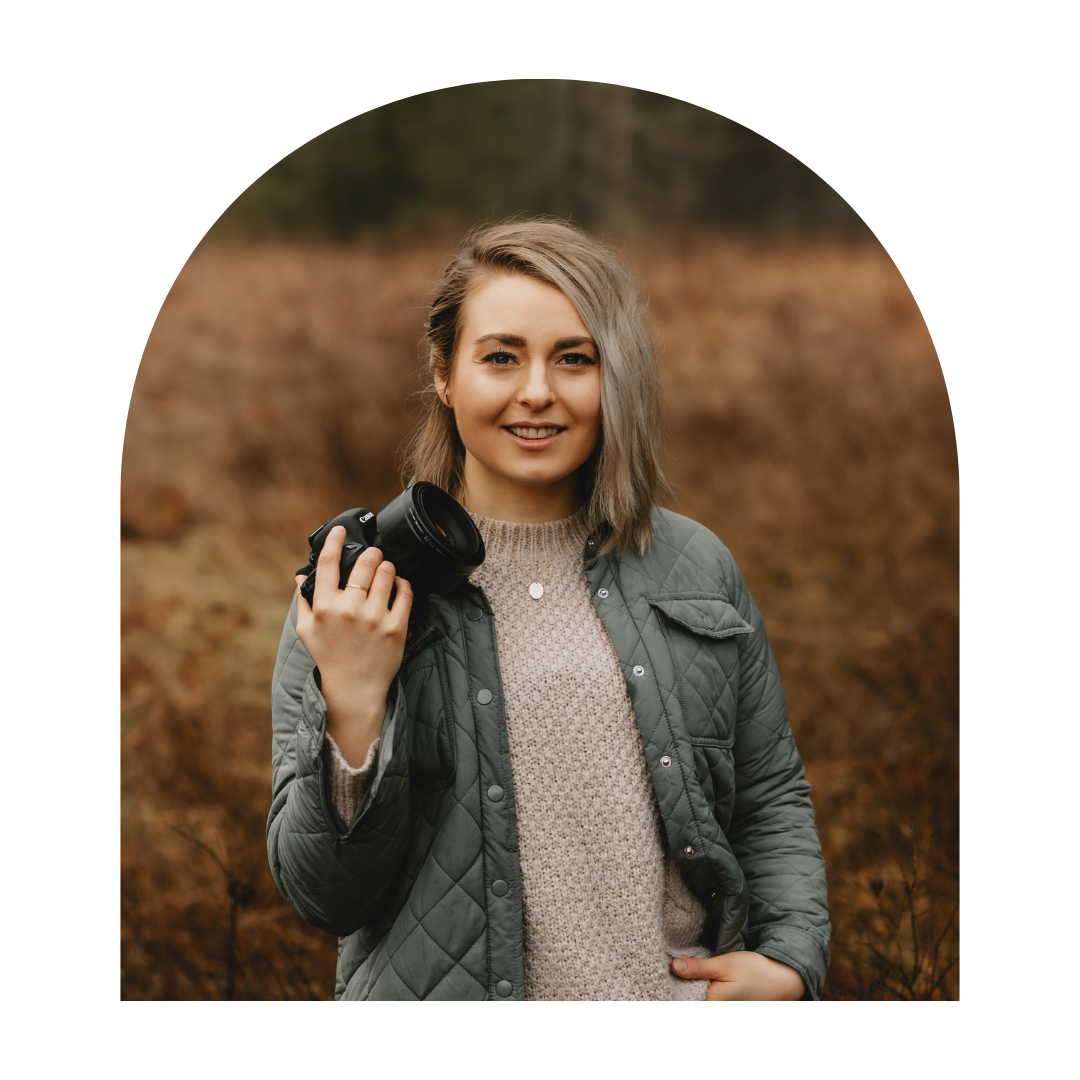
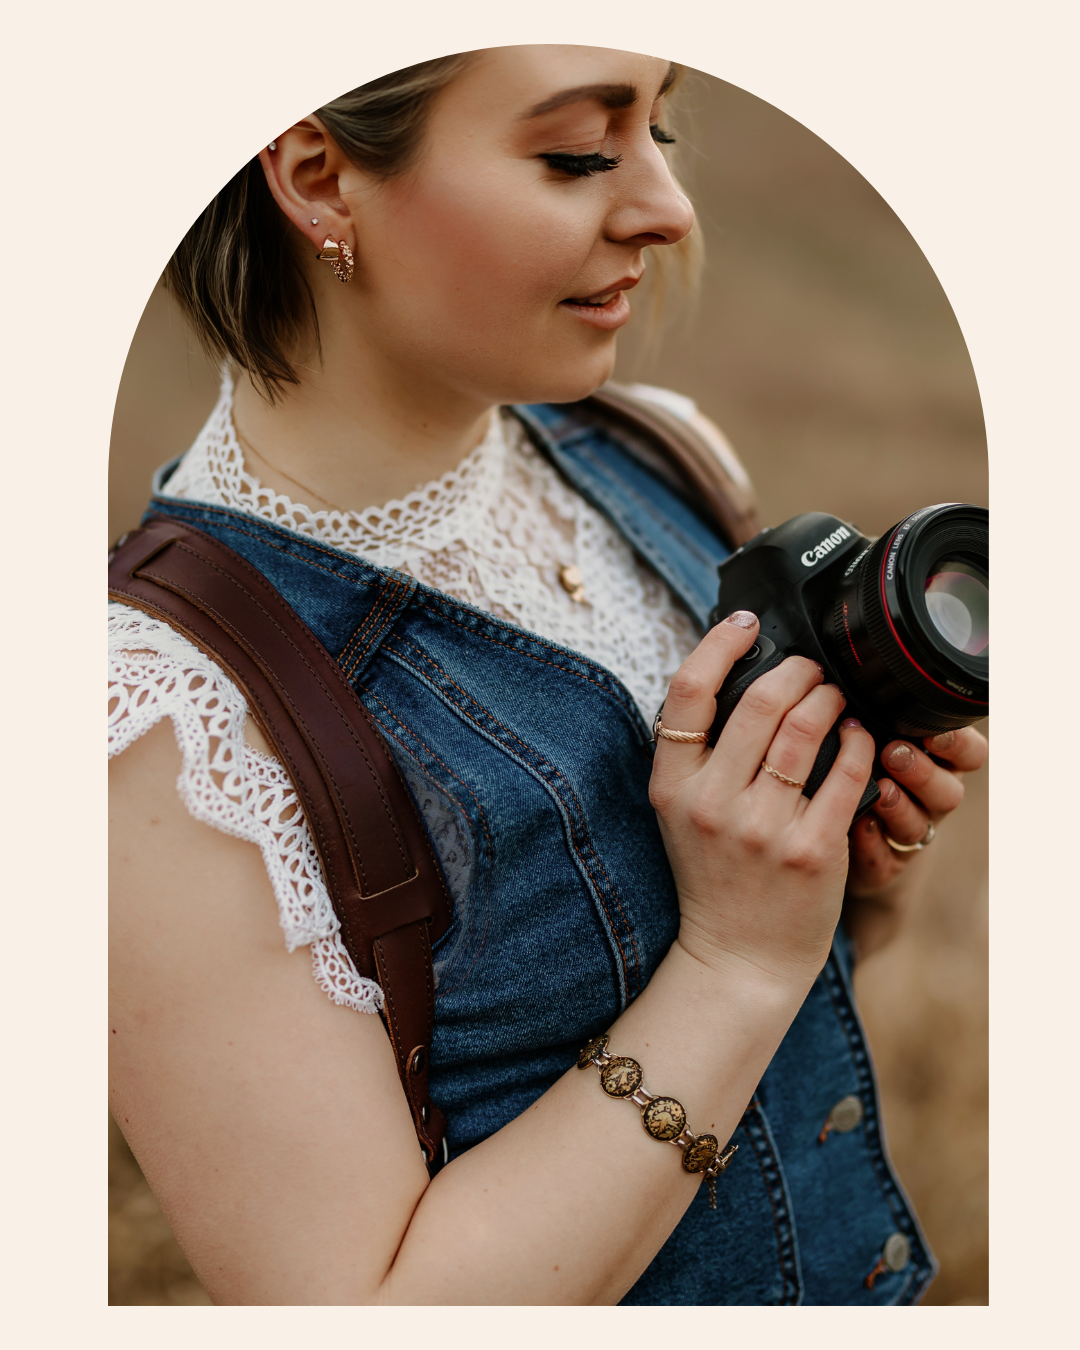
updated intro paragraph, new branding photos and new colours

diff --git a/index.html b/index.html
@@ -59,8 +59,7 @@
                         <h1>Portrait & lifestyle<br> photographer.</h1>
         
                         <p>
-                            There is something so wonderful about capturing daily life in a beautiful & intriguing way. It brings me so much joy to work alongside you to provide you with a memorable, fun, & smooth photo experience! Together we will tell those life stories that reflect you and the wonderful bond between what you love to do and whom you love to do life&nbsp;with.
-
+                            I’m all about capturing real connection. My photos are rooted in storytelling, focusing on the little in-between moments that make your season of life uniquely yours. I’d love to connect and bring your story to life in a way that feels natural, meaningful, and true to&nbsp;you!
                             </p>
                     </div>
                 </div>

diff --git a/styles/styles.css b/styles/styles.css
@@ -230,8 +230,7 @@ html {
   border: 0;
   padding: 0;
   white-space: nowrap;
-  -webkit-clip-path: inset(100%);
-          clip-path: inset(100%);
+  clip-path: inset(100%);
   clip: rect(0 0 0 0);
   overflow: hidden;
 }
@@ -241,7 +240,7 @@ html {
 }
 
 .tagline {
-  background-color: #5E695E;
+  background-color: #3F444D;
 }
 
 .about, .packages {
@@ -249,7 +248,7 @@ html {
 }
 
 footer {
-  background-color: #5E695E;
+  background-color: #3F444D;
 }
 
 .minis, .testimonials {
@@ -701,7 +700,7 @@ header {
 
 .mentorshipBottom {
   padding: 100px 0;
-  background-color: #5E695E;
+  background-color: #3F444D;
 }
 
 .mentorshipContainer {
@@ -730,7 +729,7 @@ header {
   margin-top: 10px;
   color: #000;
   background-color: #F7F0E5;
-  border-color: #5E695E;
+  border-color: #3F444D;
 }
 .mentorshipContainer .button:hover {
   border: 1px solid #C9994F;

diff --git a/styles/scss/_colors.scss b/styles/scss/_colors.scss
@@ -5,7 +5,7 @@ $sand: #DBCFBA;
 $goldenHour: #C9994F;
 $september: #BF825C;
 $crescentBeach: #87594F;
-$fir: #5E695E;
+$fir: #3F444D;
 
 $primary: $goldenHour;
 $linkHover: $goldenHour;
